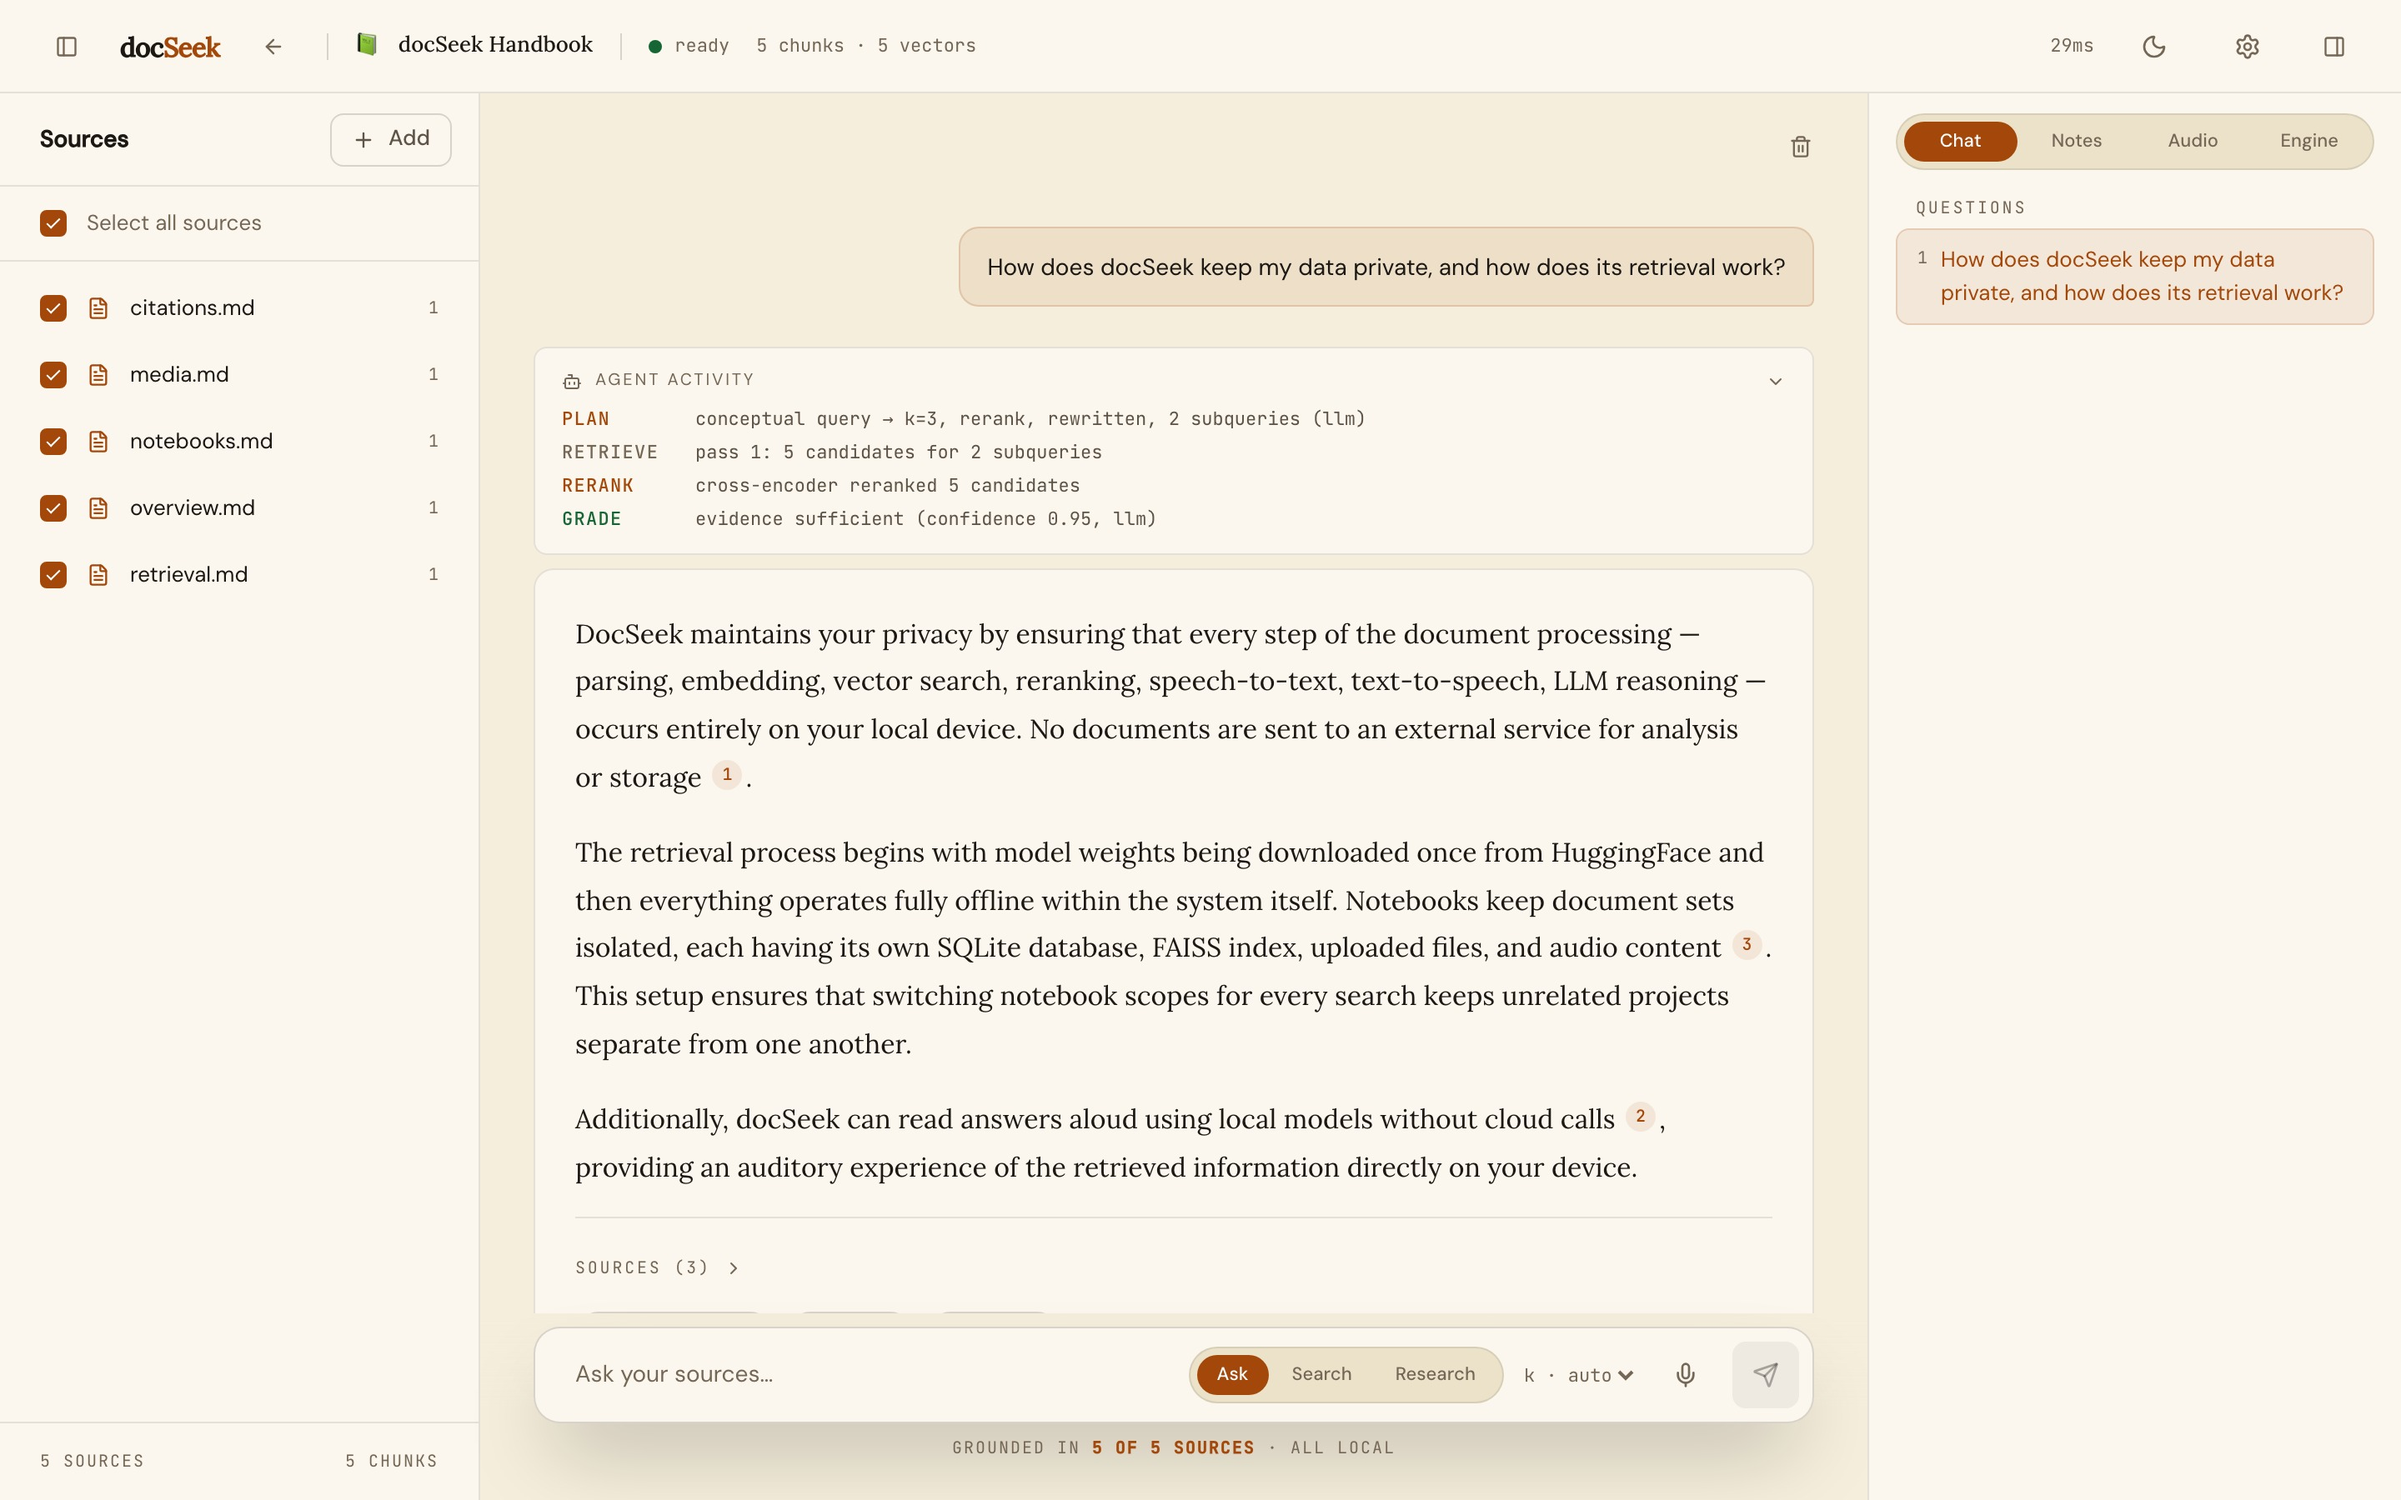
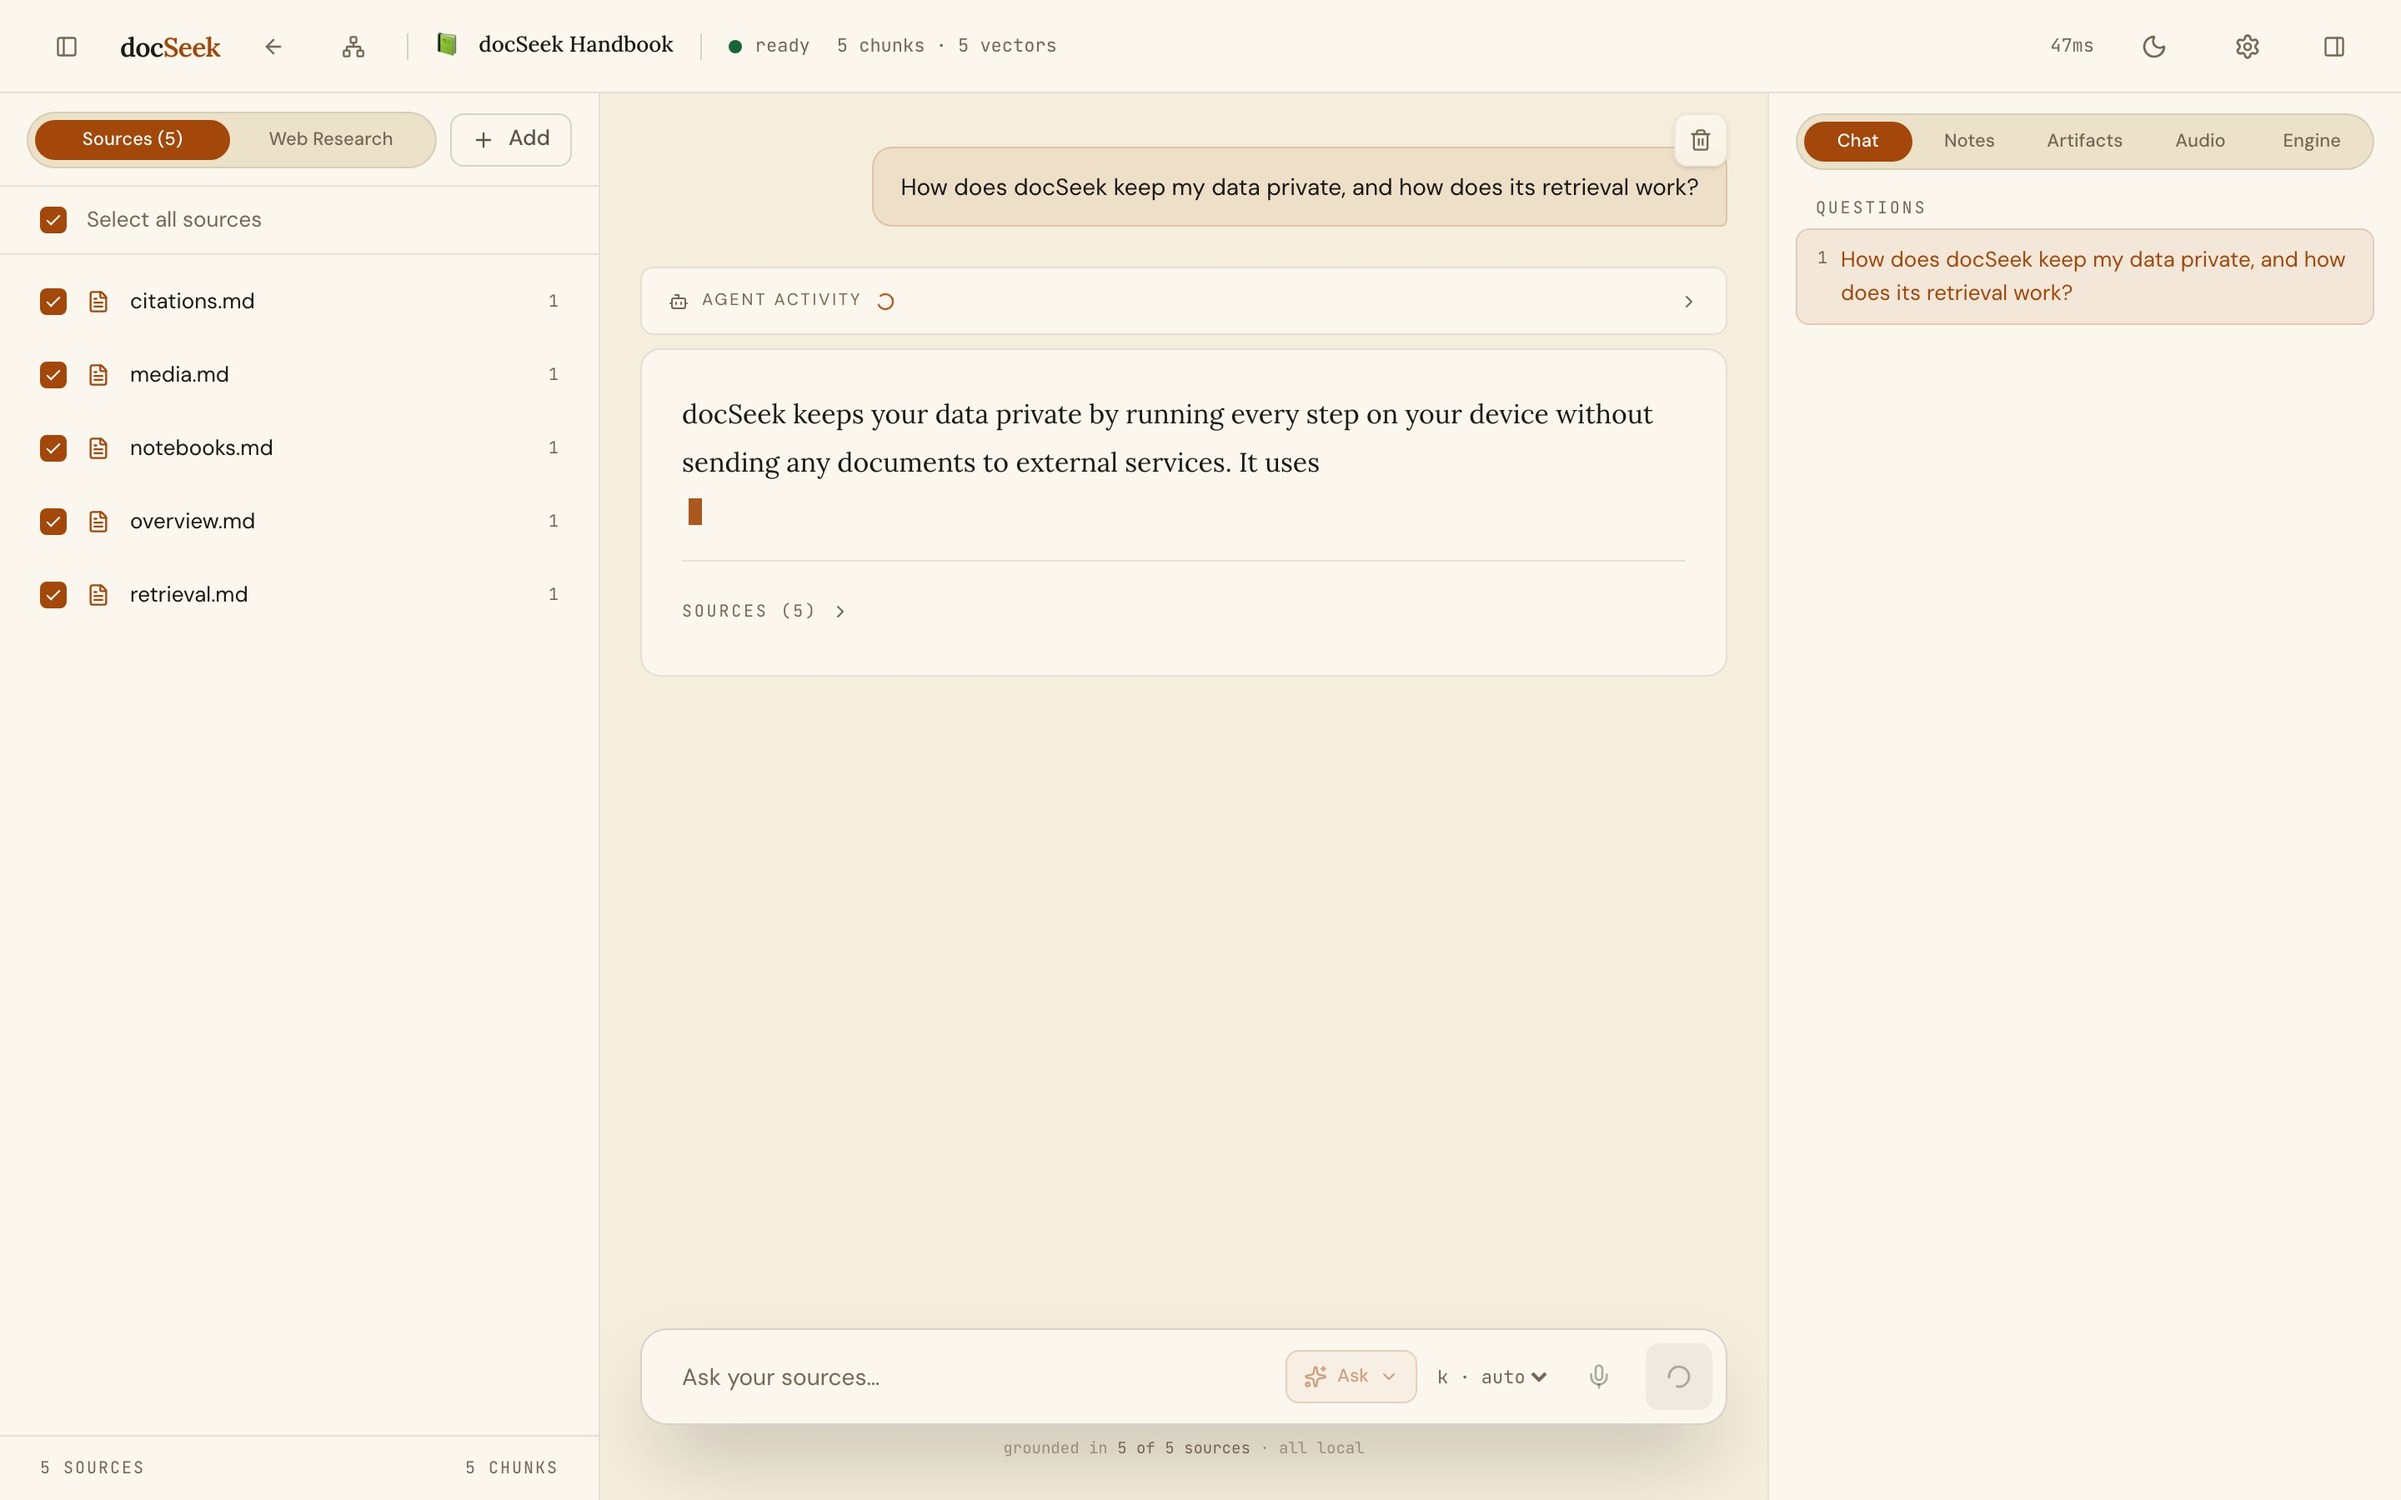
feat(ui): float clear button, soften grounding text, and update README & assets
- Float clear chat button to free vertical layout space in ChatPanel
- Soften and scale down grounding metadata typography
- Add knowledge graph capture to screenshot harness
- Update README with knowledge graph, AST chunking, and refreshed screenshots

diff --git a/frontend/src/components/ChatPanel.jsx b/frontend/src/components/ChatPanel.jsx
@@ -903,10 +903,15 @@ export default function ChatPanel({
   const canType = selectedCount > 0;
 
   return (
-    <section className="flex-1 min-w-[380px] flex flex-col">
+    <section className="flex-1 min-w-[380px] flex flex-col relative">
       {messages.length > 0 && (
-        <div className="flex-shrink-0 flex items-center justify-end px-6 pt-4">
-          <IconButton icon={Trash2} onClick={() => setClearOpen(true)} title="Clear chat" />
+        <div className="absolute top-3 right-6 z-10">
+          <IconButton
+            icon={Trash2}
+            onClick={() => setClearOpen(true)}
+            title="Clear chat"
+            className="bg-surface/80 backdrop-blur-sm border border-border/60 shadow-sm hover:bg-surface hover:text-caution"
+          />
         </div>
       )}
       <div className="flex-1 overflow-y-auto px-6 pt-8 pb-4">
@@ -1126,15 +1131,15 @@ export default function ChatPanel({
           </button>
         </form>
         {micError ? (
-          <p className="text-center font-mono text-2xs uppercase tracking-[0.1em] text-caution mt-2">
+          <p className="text-center font-mono text-[9.5px] text-caution mt-1.5">
             {micError}
           </p>
         ) : (
-          <p className="text-center font-mono text-2xs uppercase tracking-[0.1em] text-text-muted mt-2">
+          <p className="text-center font-mono text-[9.5px] text-text-muted/65 mt-1.5 select-none">
             grounded in{' '}
-            <b className="text-accent">
+            <span className="text-text-muted font-normal">
               {selectedCount} of {totalSources} source{totalSources !== 1 ? 's' : ''}
-            </b>{' '}
+            </span>{' '}
             · all local
           </p>
         )}

diff --git a/README.md b/README.md
@@ -20,6 +20,7 @@ Built with **FastAPI · FAISS · Sentence-Transformers · SQLite · Ollama · Re
 - [Quick Start (the easy way)](#quick-start-the-easy-way)
 - [Manual Setup (step by step)](#manual-setup-step-by-step)
 - [Using docSeek](#using-docseek)
+- [Knowledge Graph](#interactive-knowledge-graph)
 - [How it works](#how-it-works)
 - [Configuration](#configuration)
 - [Troubleshooting](#troubleshooting)
@@ -32,6 +33,8 @@ Built with **FastAPI · FAISS · Sentence-Transformers · SQLite · Ollama · Re
 - 🔒 **Stay 100% local & private.** No cloud, no API keys, no telemetry. Your documents never leave the machine.
 - 📚 **Organize work into notebooks.** Each notebook is a fully isolated corpus with its own database, vector index, and files — switch between projects without their contents ever mixing.
 - 🧠 **Ask with an agent, not just search.** A local LLM plans each query, rewrites unclear questions, retrieves, reranks, grades the evidence, and re-tries when it's not good enough (Corrective RAG).
+- 🕸 **Explore connections via Knowledge Graph.** Visualize document relationships, cross-references, tags, and semantic cosine similarity clusters in an interactive 2D force-directed canvas.
+- 🧩 **AST-Aware Code Ingestion.** Ingest whole repositories (Python, JavaScript, TypeScript, Markdown) with language-aware abstract syntax tree chunking that preserves function, class, and method boundaries.
 - 🔎 **Hybrid retrieval.** Dense vectors (FAISS) fused with keyword search (SQLite FTS5) via Reciprocal Rank Fusion, with optional local cross-encoder reranking.
 - 📄 **Ingest almost anything.** `.txt`, `.md`, `.html`, `.docx`, `.pdf` (with on-device OCR fallback for scanned PDFs), `.pptx`, pasted text, whole GitHub repos, or web pages.
 - 🎙 **Talk and listen.** Dictate questions with your mic (local Whisper), have answers read aloud, or generate a two-host **audio overview** of your sources (local Kokoro TTS).
@@ -63,7 +66,7 @@ Built with **FastAPI · FAISS · Sentence-Transformers · SQLite · Ollama · Re
 ./setup.sh
 
 # 2. Pull the default local model
-ollama pull phi3:mini
+ollama pull qwen2.5:1.5b       # fast, reliable JSON agent (or phi3:mini)
 
 # 3. (Optional) Start SearXNG for web research
 docker compose up -d
@@ -117,7 +120,8 @@ cd frontend && npm install && cd ..
 
 ```bash
 # Install Ollama from https://ollama.com and start it, then:
-ollama pull phi3:mini          # default, fast
+ollama pull qwen2.5:1.5b       # default, fast & reliable structured agent
+ollama pull phi3:mini          # alternative lightweight 3.8B model
 ollama pull qwen2.5:7b         # optional, stronger — better research reports & podcasts
 ```
 
@@ -161,6 +165,7 @@ docker compose up -d           # starts SearXNG on http://localhost:8080
    - **Research** — a long, multi-section cited report.
 4. **Scope retrieval** by checking/unchecking sources in the left panel.
 5. **Do more in the Studio panel** (right): take notes, generate an audio overview, or inspect engine stats.
+6. **Navigate the Knowledge Graph**: Click the network graph icon in the top header to reveal semantic connections, tags, and citation relationships across your corpus.
 
 **Bulk ingest from the CLI** (each notebook is isolated, so pass its id):
 
@@ -171,6 +176,21 @@ python -m app.ingest --notebook <notebook-id> --url https://example.com/page
 
 ---
 
+## Interactive Knowledge Graph
+
+Explore your document collection not just through linear search, but as an interconnected knowledge web.
+
+![The docSeek interactive knowledge graph](docs/images/knowledge_graph.jpg)
+
+<p align="center"><em>Visualize cross-document citations, semantic similarity clusters, and tag relationships in a responsive 2D canvas.</em></p>
+
+- 🕸 **Semantic Similarity Edges**: Nodes represent documents or individual chunks; edges map semantic cosine proximity above an adjustable threshold.
+- 🎛 **Real-Time Physics Tuning**: Adjust force-directed repulsion, minimum similarity thresholds, and cluster tension directly from the control drawer.
+- 🔎 **Graph Filtering & Search**: Find specific nodes by keyword or tag to highlight isolated subgraphs.
+- 📑 **Integrated Document Drawer**: Click any node to inspect chunk text, entity tags, references, and neighboring source passages.
+
+---
+
 ## How it works
 
 Each notebook is physically isolated on disk (`data/notebooks/<id>/` with its own SQLite DB, FAISS index, uploads, and audio). Every request is scoped to one notebook.
@@ -178,19 +198,24 @@ Each notebook is physically isolated on disk (`data/notebooks/<id>/` with its ow
 ```mermaid
 graph TD
     subgraph Ingestion Pipeline
-        Doc[Upload / Paste / GitHub] --> Detect{File Type}
+        Doc[Upload / Paste / GitHub / Web] --> Detect{File Type}
+        Detect -->|Code py/js/ts| AST[AST Syntax Chunking]
         Detect -->|PDF/Image| OCR{Scanned?}
         OCR -->|Yes| Tesseract[Tesseract OCR]
         OCR -->|No| PyPDF[PDF Text Extraction]
         Detect -->|MD/HTML/Office| Parse[Text Extractors]
-        Tesseract & PyPDF & Parse --> Chunk{Chunking}
-        Chunk -->|recursive / semantic / auto| Embed[Embed chunks]
+        Tesseract & PyPDF & Parse & AST --> Chunk{Chunking Strategy}
+        Chunk -->|recursive / semantic / AST / auto| Embed[Embed Chunks]
         Embed --> SQLite[(SQLite + FTS5)]
         Embed --> FAISS[(FAISS Index)]
+        Embed --> GraphGen[Knowledge Graph Extractor]
+        GraphGen --> GraphData[(Graph Nodes & Edges)]
     end
 
     subgraph Query Pipeline
-        Q[User Query] --> Mode{Mode}
+        Q[User Query] --> CacheCheck{Semantic Cache?}
+        CacheCheck -->|Hit| CachedAns[Return Cached Answer]
+        CacheCheck -->|Miss| Mode{Mode}
         Mode -->|Search| Hybrid[Hybrid Search: FTS5 + FAISS]
         Mode -->|Ask| Agent[LangGraph Agent]
         Agent --> Plan[Plan query & dynamic k]
@@ -211,7 +236,7 @@ graph TD
     style LLM fill:#e0af68,stroke:#ff9e64
 ```
 
-**Models (all local):** embeddings `all-mpnet-base-v2` (768-dim) · reranking `ms-marco-MiniLM-L-6-v2` · dictation `faster-whisper` · TTS `Kokoro-82M` · reasoning via Ollama (`phi3:mini` by default).
+**Models (all local):** embeddings `nomic-ai/nomic-embed-text-v1.5` (8192-token context, 768-dim) · reranking `ms-marco-MiniLM-L-6-v2` · dictation `faster-whisper` · TTS `Kokoro-82M` · reasoning via Ollama (`qwen2.5:1.5b` default or `phi3:mini`).
 
 ---
 
@@ -222,8 +247,10 @@ Set via environment variables (or edit `app/core/config.py`):
 | Variable | Default | Purpose |
 | :--- | :--- | :--- |
 | `DOCSEEK_PORT` | `8000` | Backend port. |
-| `DOCSEEK_LLM_MODEL` | `phi3:mini` | Ollama model for the agent and generation. |
+| `DOCSEEK_LLM_MODEL` | `qwen2.5:1.5b` | Ollama model for the agent and generation. |
 | `DOCSEEK_LLM_BASE_URL` | `http://localhost:11434/v1` | Ollama endpoint. |
+| `DOCSEEK_EMBED_MODEL` | `nomic-ai/nomic-embed-text-v1.5` | Dense vector embedding model (8192 context). |
+| `DOCSEEK_EMBED_DIM` | `768` | Embedding vector dimension. |
 | `DOCSEEK_STT_MODEL` | `small` | faster-whisper size (`tiny`/`base`/`small`/`medium`). |
 | `DOCSEEK_TTS_VOICE_A` / `_B` | `af_heart` / `am_michael` | The two podcast host voices. |
 | `DOCSEEK_SEARXNG_URL` | `http://localhost:8080` | SearXNG endpoint for local web research. |
@@ -236,7 +263,7 @@ Set via environment variables (or edit `app/core/config.py`):
 
 ## Troubleshooting
 
-- **Answers are generic / no citations.** Ollama isn't running or the model isn't pulled. Start Ollama and run `ollama pull phi3:mini`. docSeek falls back to plain hybrid search when the LLM is unreachable.
+- **Answers are generic / no citations.** Ollama isn't running or the model isn't pulled. Start Ollama and run `ollama pull qwen2.5:1.5b`. docSeek falls back to plain hybrid search when the LLM is unreachable.
 - **First query is slow.** Models load lazily on first use (embedder, reranker, Whisper, Kokoro download once). Subsequent runs are fast.
 - **Scanned PDF won't ingest.** Install `tesseract` (OCR). Without it, image-only PDFs are skipped cleanly rather than crashing.
 - **Podcast/TTS fails.** Run `./scripts/install_audio.sh` and install `espeak-ng`.
@@ -256,6 +283,10 @@ Set via environment variables (or edit `app/core/config.py`):
 │   │   ├── database.py  # SQLite schema + queries (per notebook)
 │   │   ├── engine.py    # Embeddings + FAISS index
 │   │   ├── agent.py     # LangGraph agentic retrieval loop
+│   │   ├── ast_chunking.py # AST parser for Python/JS/TS code
+│   │   ├── graph.py     # Knowledge graph extraction & similarity edges
+│   │   ├── cache.py     # Semantic response & retrieval cache
+│   │   ├── web_research.py # SearXNG web decomposition & ingestion
 │   │   ├── podcast.py   # Audio overview graph
 │   │   └── research.py  # Deep-research graph
 │   ├── server.py        # FastAPI endpoints + SSE
@@ -268,7 +299,12 @@ Set via environment variables (or edit `app/core/config.py`):
 │       ├── uploads/         #   raw files
 │       └── audio/           #   generated audio
 ├── frontend/            # React + Vite UI
-├── scripts/             # install_audio.sh, screenshots, debug tools
+│   ├── src/
+│   │   ├── components/  # ChatPanel, GraphCanvas, SourcesPanel, StudioPanel...
+│   │   ├── pages/       # Workspace, GraphPage, NotebooksPage, LandingPage
+│   │   └── lib/         # API clients and SystemContext
+│   └── scripts/         # Automated Playwright screenshot harness
+├── scripts/             # install_audio.sh, debug tools
 ├── setup.sh             # One-command setup
 ├── run.sh               # Run backend + frontend
 └── requirements.txt     # Backend dependencies
